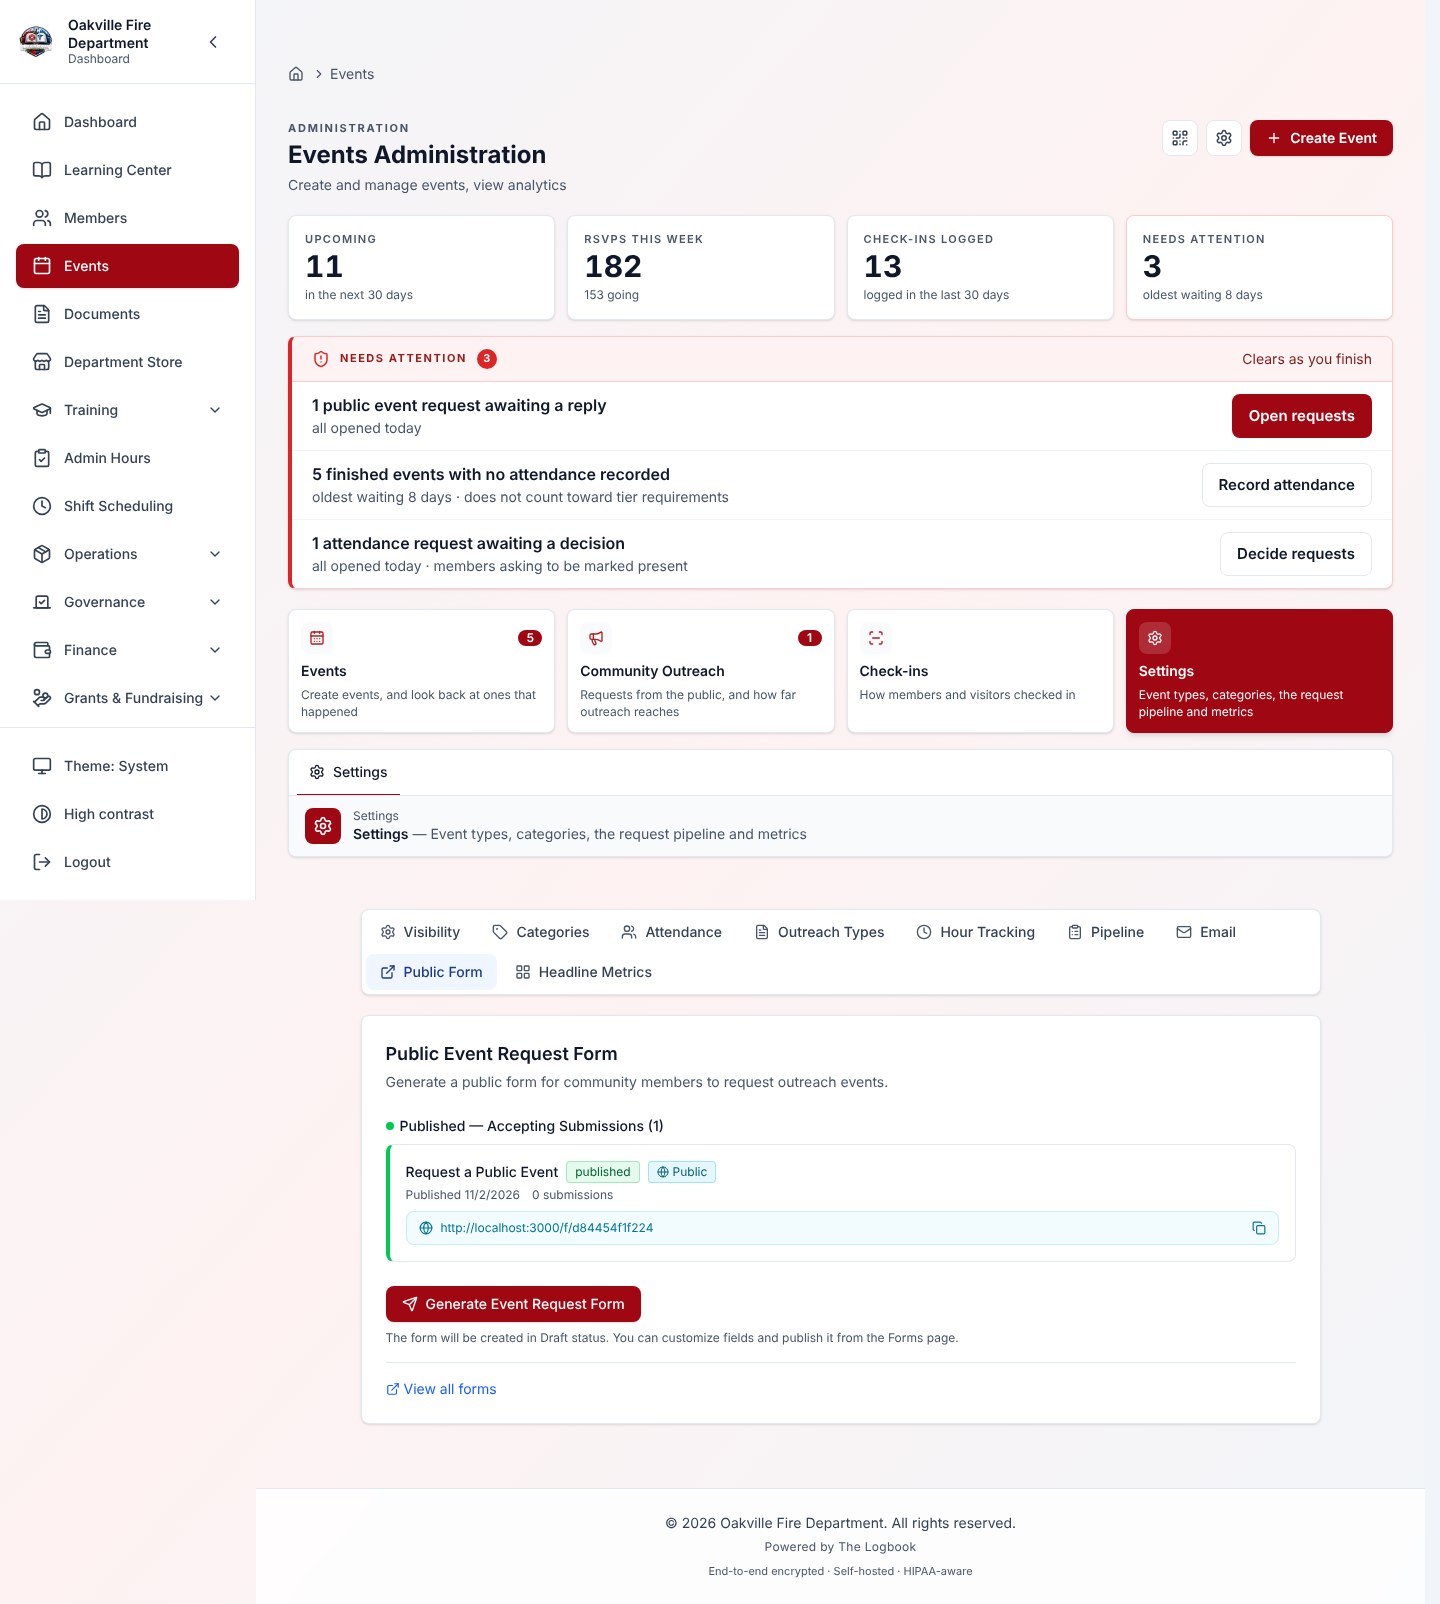
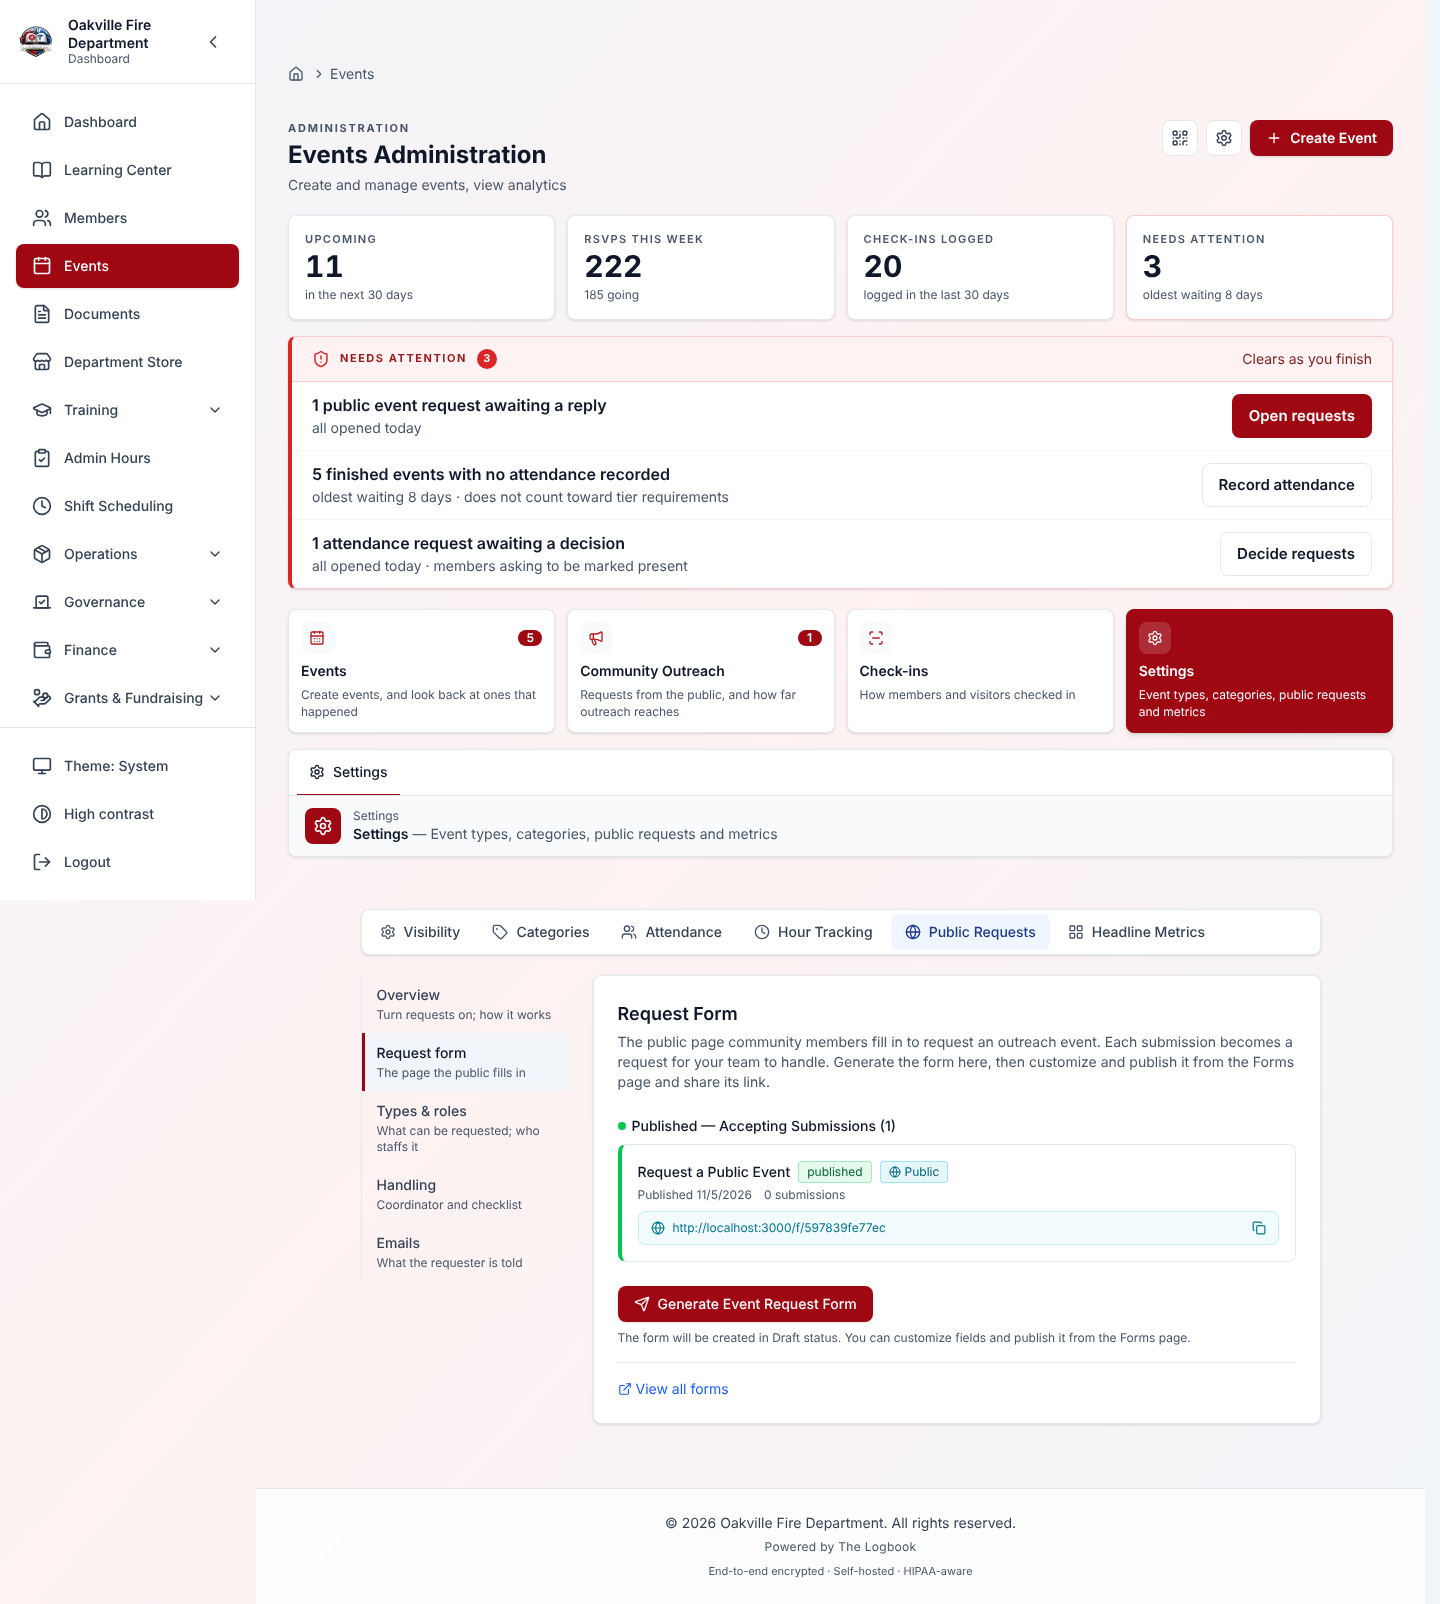
Capture the Public Requests Overview and re-shoot the Request form page
04-98 fills the new Overview placeholder in guide 04; 19-24 is re-shot
through Public Requests -> Request form. Both taken by capture.mjs on the
seeded demo department with malware scanning on. SCREENSHOT_CURRENCY
records them as captured, and SCREENSHOT_STATUS counts the new shot.

Claude-Session: https://claude.ai/code/session_01AAxg2jzkVFBx5cUL88sPEs

diff --git a/docs/training/SCREENSHOT_CURRENCY.md b/docs/training/SCREENSHOT_CURRENCY.md
@@ -1,15 +1,22 @@
 # Screenshot currency
 
-## Queued by the Event settings Public Requests regroup (2026-11-05)
+## Captured 2026-11-05 — Event settings Public Requests (#4049)
 
-Event settings' **Outreach Types**, **Pipeline**, **Email** and **Public Form**
-sections became pages of one **Public Requests** section, with a new
-**Overview** page. Nothing was captured.
+#4049 turned Event settings' **Outreach Types**, **Pipeline**, **Email** and
+**Public Form** sections into pages of one **Public Requests** section, with a
+new **Overview**. Taken on the demo department seeded from `main` at
+`a02bdd96`, with malware scanning on. Nothing mocked and nothing written to the
+demo beyond the seed.
 
-| Guide | Screen | Action |
+`main` at that commit carried two Alembic heads (#4051 and #4065 both branch
+from `bd8fc0c4a941`; #4078 rejoins them), so the demo database was brought up
+with `alembic upgrade heads`. Neither shot reads a table either migration
+touches.
+
+| Image | Disposition | Notes |
 | --- | --- | --- |
-| 04 | `19-24` — now Public Requests → Request form, with the page rail beside it | Replace |
-| 04 | Public Requests → Overview: the intake switch, lead time and the four step cards | Create |
+| `19-24-outreach-form-section` | Re-shot | Now reached through Public Requests → Request form; the page rail sits beside the panel. Manifest entry reopened it through the rail, and its alt text now names the new path |
+| `04-98-public-requests-overview` | New | The Overview as seeded: intake on, 21-day lead time, and the four step cards. Handling reads amber ("No default coordinator"), because the seed sets no coordinator, which is the state a new department sees |
 
 ## Queued by the November 3 – 4 documentation pass
 

diff --git a/docs/training/SCREENSHOT_STATUS.md b/docs/training/SCREENSHOT_STATUS.md
@@ -9,7 +9,7 @@ image still matches the application is tracked by hand in
 [SCREENSHOT_CURRENCY.md](./SCREENSHOT_CURRENCY.md) — this file is
 regenerated wholesale, so that audit cannot live here.
 
-**927 of 927 placeholders filled** (0 remaining).
+**928 of 928 placeholders filled** (0 remaining).
 
 | Guide | Captured | Remaining |
 |-------|---------:|----------:|
@@ -17,7 +17,7 @@ regenerated wholesale, so that audit cannot live here.
 | [01-membership.md](./01-membership.md) | 48 | 0 |
 | [02-training.md](./02-training.md) | 111 | 0 |
 | [03-scheduling.md](./03-scheduling.md) | 122 | 0 |
-| [04-events-meetings.md](./04-events-meetings.md) | 87 | 0 |
+| [04-events-meetings.md](./04-events-meetings.md) | 88 | 0 |
 | [05-inventory.md](./05-inventory.md) | 124 | 0 |
 | [06-apparatus-facilities.md](./06-apparatus-facilities.md) | 32 | 0 |
 | [07-documents-forms.md](./07-documents-forms.md) | 48 | 0 |
@@ -32,5 +32,5 @@ regenerated wholesale, so that audit cannot live here.
 | [16-integrations.md](./16-integrations.md) | 21 | 0 |
 | [17-privacy-data-rights.md](./17-privacy-data-rights.md) | 7 | 0 |
 | [18-storefront.md](./18-storefront.md) | 9 | 0 |
-| **Total** | **927** | **0** |
+| **Total** | **928** | **0** |
 

diff --git a/docs/training/04-events-meetings.md b/docs/training/04-events-meetings.md
@@ -1644,10 +1644,7 @@ to open its page. A status reads green once that step is set up and amber
 while something is missing: **Handling** stays amber until there is both a
 default coordinator and at least one checklist step.
 
-<!-- Screenshot needed:
-Event settings, Public Requests, Overview: the Accept Public Requests switch,
-Minimum Lead Time, and the four numbered step cards with their statuses
--->
+![Event settings, Public Requests, Overview: the Accept Public Requests switch, Minimum Lead Time, and the four numbered steps, each with its status](./images/04-98-public-requests-overview.png)
 
 On a phone the sections become a scrollable strip of tabs, and every control
 is a full-size touch target.
